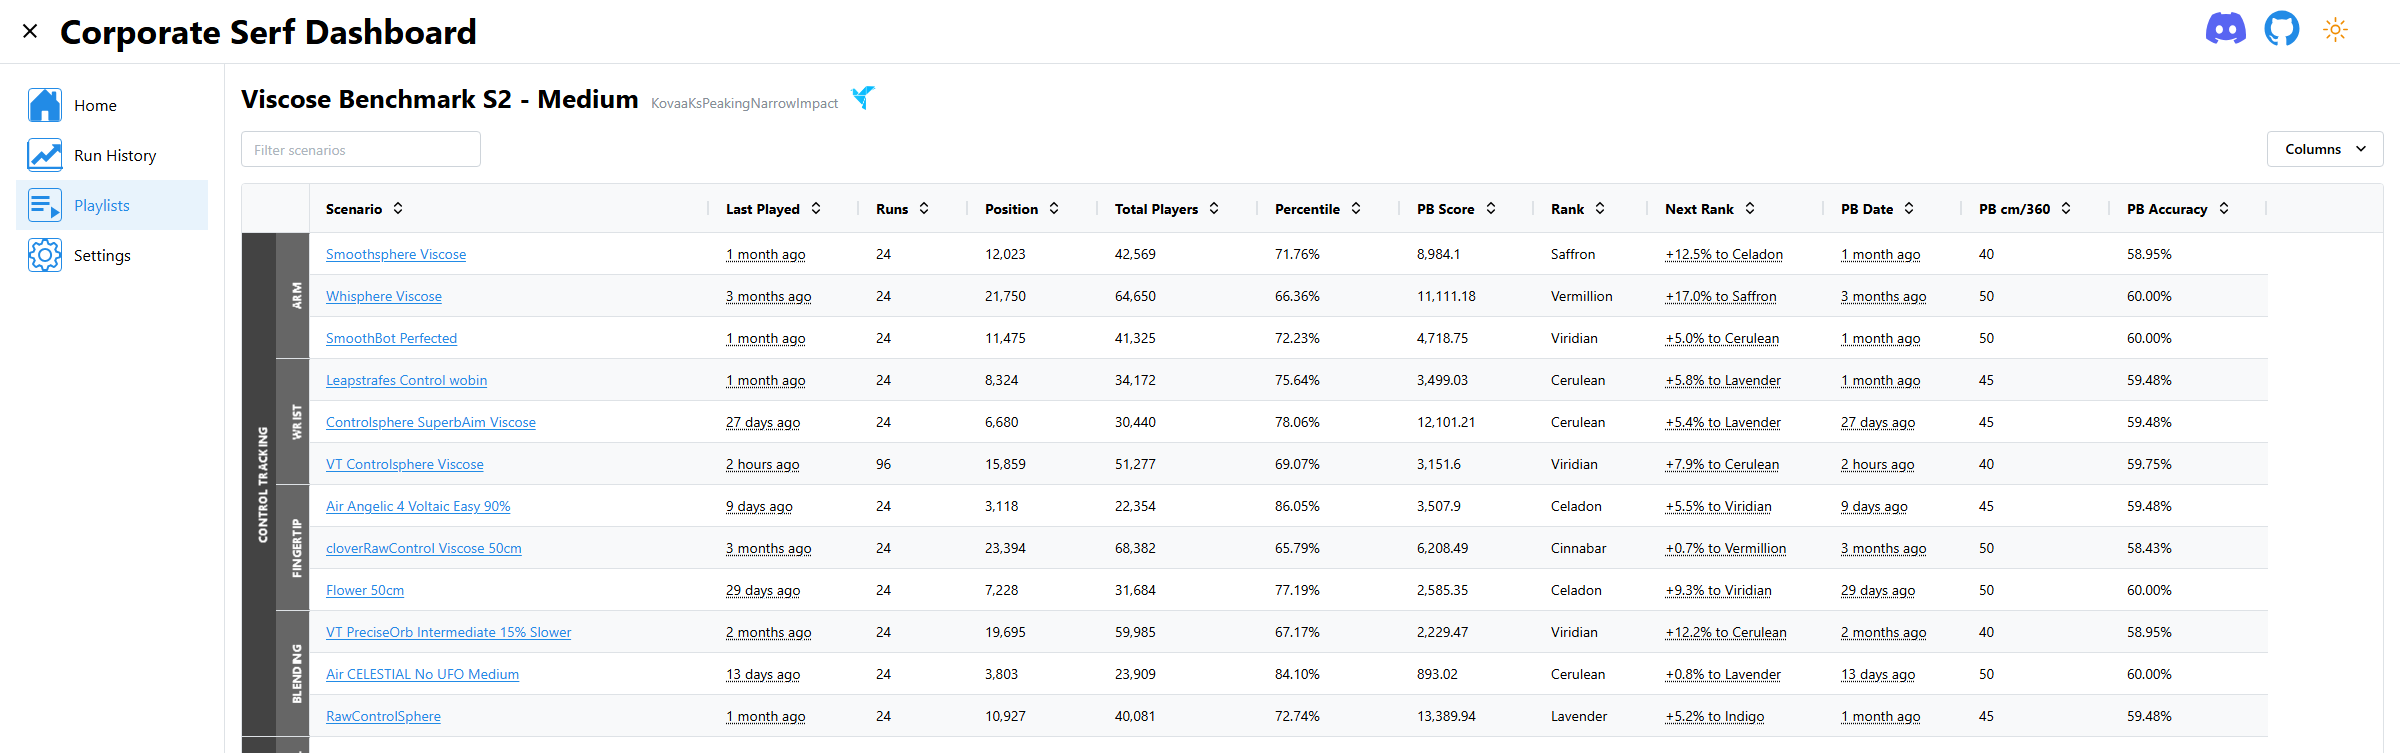
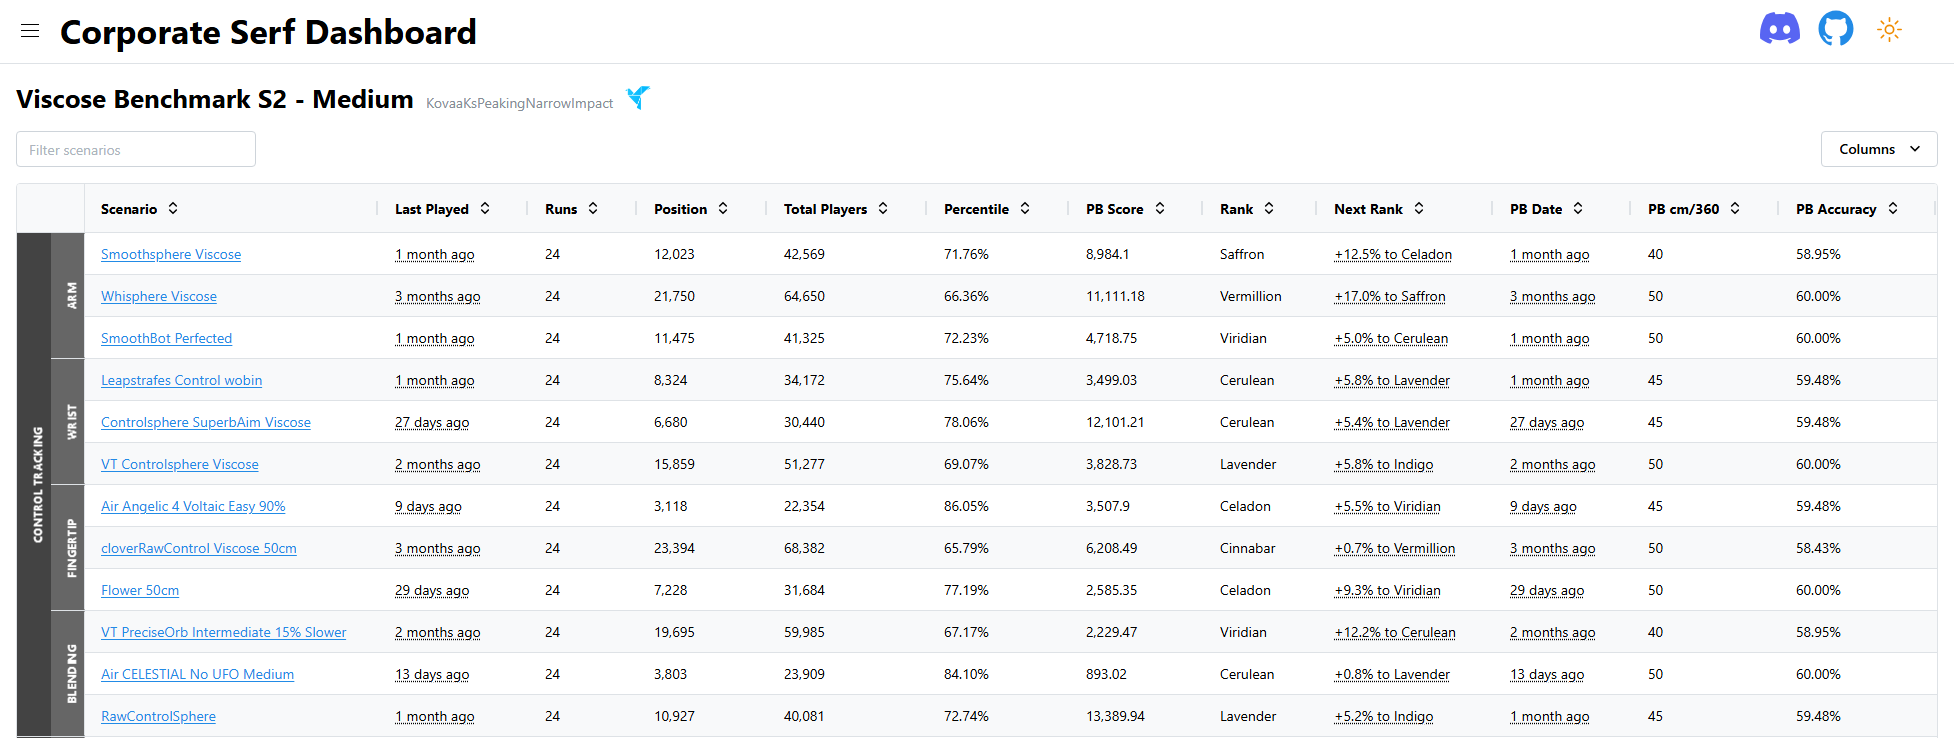
Show faded history and fit all screenshot table columns

diff --git a/scripts/capture_screenshots.py b/scripts/capture_screenshots.py
@@ -22,8 +22,14 @@ from urllib.request import urlopen
 
 ROOT = Path(__file__).resolve().parents[1]
 NOW = datetime(2026, 10, 21, 18)
-SCENARIO = "VT Controlsphere Viscose"
-PLAYLIST_CODE = "KovaaKsPeakingNarrowImpact"
+SCENARIO = "VT ww5t Intermediate S5"
+RUN_HISTORY_PLAYLIST_CODE = "KovaaKsCarryingNarrowCt"
+TABLE_PLAYLIST_CODE = "KovaaKsPeakingNarrowImpact"
+SESSION_AGES = (140, 137, 134, 131, 45, 42, 39, 0)
+NOTE_TEXT = (
+    "Keep the click rhythm steady. Reset the aim between targets and avoid "
+    "rushing the final shots."
+)
 USERNAME = "Sample player"
 PLAYLIST_NAMES = (
     "Voltaic Novice Benchmarks S5.5",
@@ -92,7 +98,7 @@ def write_sample_state(state: Path, port: int) -> list[dict]:
         for run in range(count):
             session, in_session = divmod(run, 12)
             ended = NOW - timedelta(
-                days=(count // 12 - session - 1) * 3
+                days=SESSION_AGES[session]
                 if name == SCENARIO
                 else 1 + (index // 3) * 2 + (1 - session),
                 hours=2 if name == SCENARIO else 4 + index % 3 * 3,
@@ -164,8 +170,7 @@ def serve_sample(state: Path, port: int) -> None:
             api_service.save_leaderboard_total(leaderboard_id, sample["total"])
         scenario_notes_service.save_scenario_note(
             SCENARIO,
-            "Keep the movement smooth. Relax the grip and follow the target "
-            "through direction changes.",
+            NOTE_TEXT,
         )
         main()
 
@@ -198,6 +203,32 @@ def save_stable_screenshot(page, destination: Path, **options) -> None:
         previous = current
         page.wait_for_timeout(200)
     raise TimeoutError("The screenshot did not settle within 10 seconds.")
+
+
+def fit_table_columns(page, grid: str) -> int:
+    """Fit every displayed column with navigation collapsed, without horizontal scrolling."""
+    column_width = page.evaluate(
+        """async grid => {
+        const api = await window.dash_ag_grid.getApiAsync(grid);
+        return api.getAllDisplayedColumns().reduce(
+            (width, column) => width + column.getActualWidth(), 0);
+    }""",
+        grid,
+    )
+    # Measure the actual shown columns so later additions get space
+    # without squeezing their labels or cropping the last column.
+    width = max(1920, math.ceil(column_width + 48))
+    page.set_viewport_size({"width": width, "height": 1080})
+    page.wait_for_function(
+        """grid => {
+        const viewport = document.querySelector(
+            `#${grid} .ag-body-horizontal-scroll-viewport`);
+        return viewport && viewport.scrollWidth <= viewport.clientWidth + 1;
+    }""",
+        arg=grid,
+    )
+    print(f"{grid}: all displayed columns fit at {width}px with navigation collapsed")
+    return width
 
 
 def capture(origin: str, destination: Path) -> None:
@@ -235,7 +266,9 @@ def capture(origin: str, destination: Path) -> None:
         page.goto(
             origin
             + "/run-history?"
-            + urlencode({"scenario": SCENARIO, "playlist_code": PLAYLIST_CODE})
+            + urlencode(
+                {"scenario": SCENARIO, "playlist_code": RUN_HISTORY_PLAYLIST_CODE}
+            )
         )
         page.reload()
         errors = []
@@ -256,23 +289,39 @@ def capture(origin: str, destination: Path) -> None:
         expect(
             page.locator("#run-history-list-grid .run-list-row-latest").first
         ).to_be_visible()
-        expect(
-            page.get_by_text("Keep the movement smooth.", exact=False)
-        ).to_be_visible()
+        expect(page.get_by_text(NOTE_TEXT, exact=True)).to_be_visible()
+        page.get_by_text("Score vs Time", exact=True).click()
+        page.locator("#run-history-day-range").click()
+        page.get_by_role("option", name="All time", exact=True).click()
+        page.wait_for_function("""() => {
+            const graph = document.querySelector('#run-history-graph .js-plotly-plot');
+            const typical = graph?.data?.filter(trace => trace.name === 'Typical score') || [];
+            return graph?._fullLayout?.xaxis.type === 'date'
+                && graph.data[0].x.length === 96
+                && typical.some(trace => trace.opacity === 0.35)
+                && typical.some(trace => trace.opacity === 1);
+        }""")
+        page.locator("#run-history-graph").click(position={"x": 5, "y": 5})
         page.mouse.move(0, 0)
         page.evaluate("document.fonts.ready")
         save_stable_screenshot(page, destination / IMAGE_NAMES[0])
+        page.get_by_role("button", name="Show or hide navigation").click()
+        page.wait_for_function("""() =>
+            document.getElementById('navbar')?.getBoundingClientRect().right <= 1
+        """)
         for path, grid, filename in (
             ("/playlists", "playlists-overview-grid", IMAGE_NAMES[1]),
-            (f"/playlists/{PLAYLIST_CODE}", "playlist-scenarios-grid", IMAGE_NAMES[2]),
+            (
+                f"/playlists/{TABLE_PLAYLIST_CODE}",
+                "playlist-scenarios-grid",
+                IMAGE_NAMES[2],
+            ),
         ):
-            page.set_viewport_size(
-                {
-                    "width": 2400 if grid == "playlist-scenarios-grid" else 1920,
-                    "height": 1080,
-                }
-            )
+            page.set_viewport_size({"width": 1920, "height": 1080})
             page.goto(origin + path)
+            page.wait_for_function("""() =>
+                document.getElementById('navbar')?.getBoundingClientRect().right <= 1
+            """)
             expect(page.locator(f"#{grid} .ag-row").first).to_be_visible()
             # Cached leaderboard values arrive in a second callback. Wait for
             # the percentile cells as well as the first paint of local stats.
@@ -284,6 +333,7 @@ def capture(origin: str, destination: Path) -> None:
             )
             if grid == "playlist-scenarios-grid":
                 expect(page.locator("#playlist-scenarios-status")).to_have_text("")
+            fit_table_columns(page, grid)
             page.mouse.move(0, 0)
             page.evaluate("document.fonts.ready")
             main_box = page.locator("main").bounding_box()
@@ -297,7 +347,10 @@ def capture(origin: str, destination: Path) -> None:
                 destination / filename,
                 clip={
                     **main_box,
-                    "height": last_row["y"] + last_row["height"] - main_box["y"] + 16,
+                    "height": last_row["y"]
+                    + last_row["height"]
+                    - main_box["y"]
+                    + (1 if rows.count() > 12 else 16),
                 },
             )
         browser.close()

diff --git a/tests/test_capture_screenshots.py b/tests/test_capture_screenshots.py
@@ -1,16 +1,23 @@
 """Exercise screenshot sample data through the production run parser."""
 
 from collections import Counter
+from datetime import timedelta
 
 from scripts import capture_screenshots
 from source.kovaaks.data_service import extract_data_from_file
 from source.kovaaks.play_sessions import split_into_play_sessions
-from source.kovaaks.typical_score import build_typical_scores
+from source.kovaaks.typical_score import (
+    build_typical_scores,
+    typical_score_fade_time,
+    typical_score_recency,
+)
 
 
 def _sample_runs(monkeypatch, tmp_path):
     monkeypatch.setattr(
-        capture_screenshots, "PLAYLIST_NAMES", ("Viscose Benchmark S2 - Medium",)
+        capture_screenshots,
+        "PLAYLIST_NAMES",
+        ("Viscose Benchmark S2 - Medium", "Voltaic Intermediate Benchmarks S5.5"),
     )
     samples = capture_screenshots.write_sample_state(tmp_path, 12345)
     runs = [
@@ -51,3 +58,31 @@ def test_sample_sessions_have_no_overlapping_runs(monkeypatch, tmp_path):
     )
     assert max(run.datetime_object for run in runs) < capture_screenshots.NOW
     assert Counter(run.scenario for run in runs)[capture_screenshots.SCENARIO] == 96
+
+
+def test_sample_chart_contains_gaps_with_faded_and_full_strength_support(
+    monkeypatch, tmp_path
+):
+    _, runs = _sample_runs(monkeypatch, tmp_path)
+    featured = sorted(
+        (run for run in runs if run.scenario == capture_screenshots.SCENARIO),
+        key=lambda run: run.datetime_object,
+    )
+    values = build_typical_scores(featured, split_into_play_sessions(runs))
+    recency = {
+        typical_score_recency(value, run.datetime_object).recent
+        for run, value in zip(featured, values)
+        if value.known
+    }
+    assert recency == {False, True}
+    fading_holds = [
+        (run, following, typical_score_fade_time(value))
+        for run, following, value in zip(featured, featured[1:], values)
+        if value.known
+        and following.datetime_object - run.datetime_object > timedelta(days=30)
+    ]
+    assert len(fading_holds) >= 2
+    assert all(
+        run.datetime_object < fade_time < following.datetime_object
+        for run, following, fade_time in fading_holds
+    )

diff --git a/docs/screenshots/README.md b/docs/screenshots/README.md
@@ -45,13 +45,21 @@ never read or changed.
 
 The sample clock is fixed to October 21, 2026, at 18:00 UTC in both Python and
 the browser. Chromium uses English, UTC, a light theme and a fresh browser
-context. Run History is captured at 1920 by 1080; the playlist overview uses
-the same viewport and the scenario table uses a width of 2400 so all columns
-fit. Table images are cropped to their headers and up to twelve rows.
+context. Run History shows VT ww5t Intermediate S5 at 1920 by 1080 in Score vs
+Time with All time selected. Its sample history includes long breaks, so the
+Typical score line and bands visibly change between full-strength and faded
+support.
+
+For both table screenshots, the capture tool collapses the left navigation and
+measures the total width of every displayed column. It expands the viewport to
+at least that width plus the page padding, and checks that the table has no
+horizontal overflow. This includes new default columns added by later changes.
+Table images are cropped to their headers and up to twelve rows.
 
 The script reloads once for the known initial Dash Pages race, waits for the
-chart, note, grid and leaderboard callbacks, then waits for two matching frames with
-animations disabled before saving each screenshot. It fails on subsequent browser exceptions, HTTP errors,
+chart, note, grid and leaderboard callbacks, then waits for two matching frames
+with animations disabled before saving each screenshot. It fails on subsequent
+browser exceptions, HTTP errors,
 or attempted outbound requests. All three captures must succeed before any
 checked-in image is replaced, and the temporary server and state are removed
 on success or failure.
